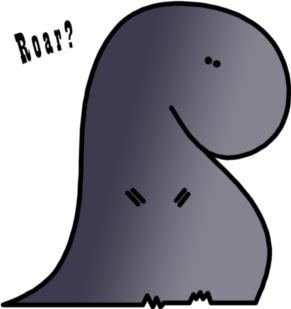
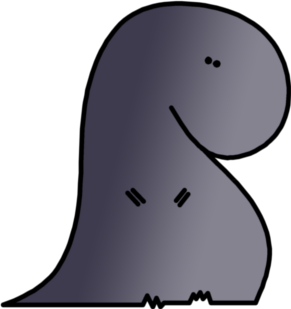
dyno info + form more right + lil fixes

Changed region(s): [[0.0309, 0.0583, 0.2474, 0.2039]]

diff --git a/app/assets/stylesheets/pings.css.scss b/app/assets/stylesheets/pings.css.scss
@@ -28,11 +28,19 @@ section#cute_dyno {
   height: 505px;
   text-indent: -9999px;
   background: image-url("dyno_awaken.png") no-repeat 50% 100%;
+
+  span.arrow {
+    display: block;
+    width: 216px;
+    height: 156px;
+    margin: 33px 0 0 33px;
+    background: image-url("info.png") no-repeat 50% 100%;
+  }
 }
 
 section#registration {
   float: right;
-  width: 512px;
+  width: 480px;
   margin: 40px 0 0 0;
 
   strong {
@@ -83,7 +91,7 @@ section#registration {
     float: right;
     width: 102px;
     height: 40px;
-    margin: 28px 50px 0 0;
+    margin: 28px 18px 0 0;
     border: 1px solid #000;
     background-color: #25ad00;
     font-size: 14pt;
@@ -119,7 +127,7 @@ div#bottom_center {
     width: 498px;
     margin: 4px 0 0 20px;
     text-indent: -9999px;
-    background: image-url("my_dynozaur.png") no-repeat 0 0;
+    background: image-url("my_dynosaur.png") no-repeat 0 0;
   }
 
   section {
